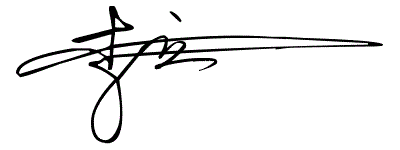
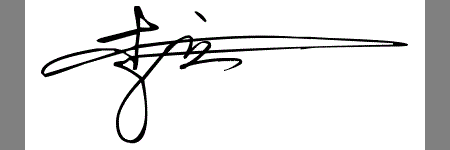
sd

diff --git a/_site/assets/css/custom.css b/_site/assets/css/custom.css
@@ -131,7 +131,7 @@ audio {
 /* cover
 -------------------------------------------------- */
 .cover {
-	max-width: 400px;
+	max-width: 450px;
 	height: 150px;
 	text-align: center;
 	text-shadow: 0 1px 3px rgba(0,0,0,.5);
@@ -139,7 +139,7 @@ audio {
 	top: 50%;
 	left: 50%;
 	margin-top: -75px;
-	margin-left: -200px;
+	margin-left: -225px;
 }
 .cover img {
 	max-width: 100%;

diff --git a/assets/css/custom.css b/assets/css/custom.css
@@ -131,7 +131,7 @@ audio {
 /* cover
 -------------------------------------------------- */
 .cover {
-	max-width: 400px;
+	max-width: 450px;
 	height: 150px;
 	text-align: center;
 	text-shadow: 0 1px 3px rgba(0,0,0,.5);
@@ -139,7 +139,7 @@ audio {
 	top: 50%;
 	left: 50%;
 	margin-top: -75px;
-	margin-left: -200px;
+	margin-left: -225px;
 }
 .cover img {
 	max-width: 100%;
